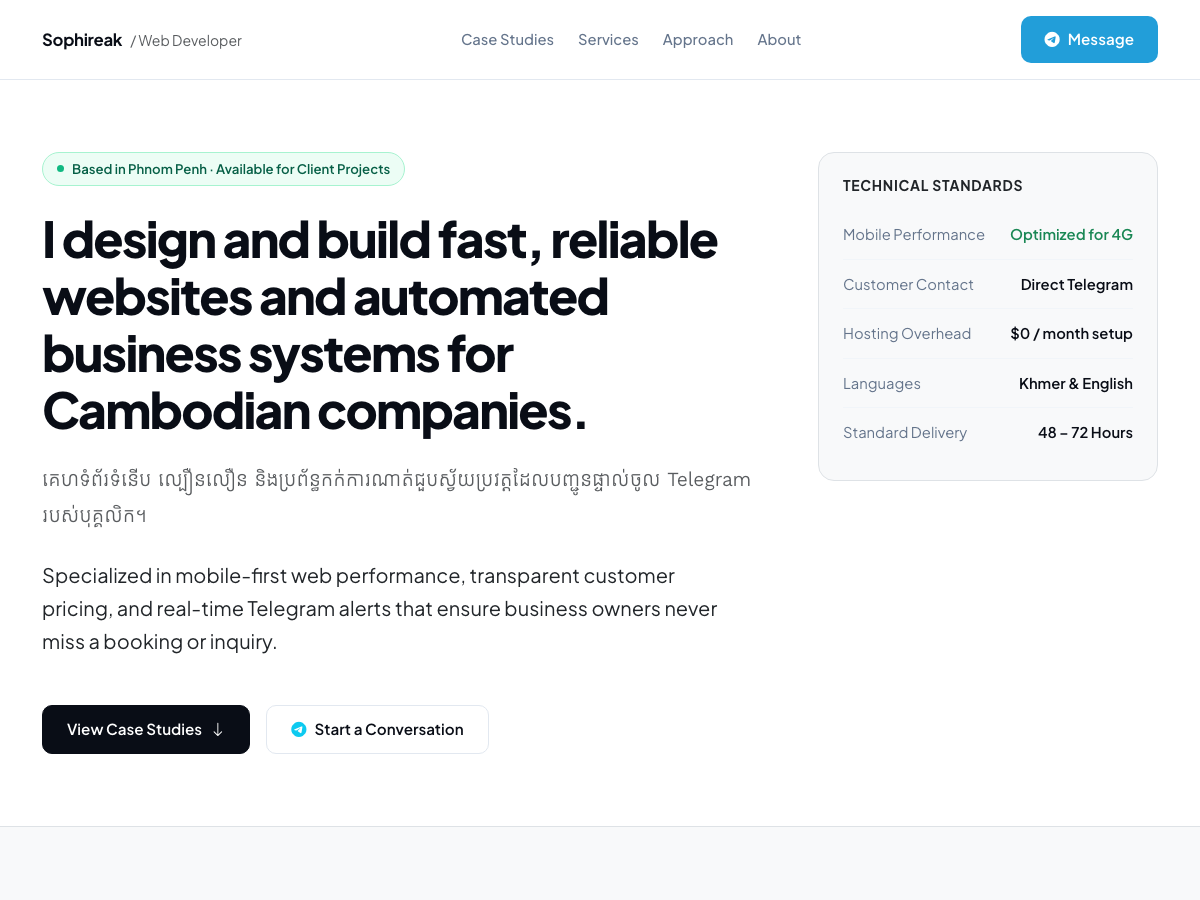
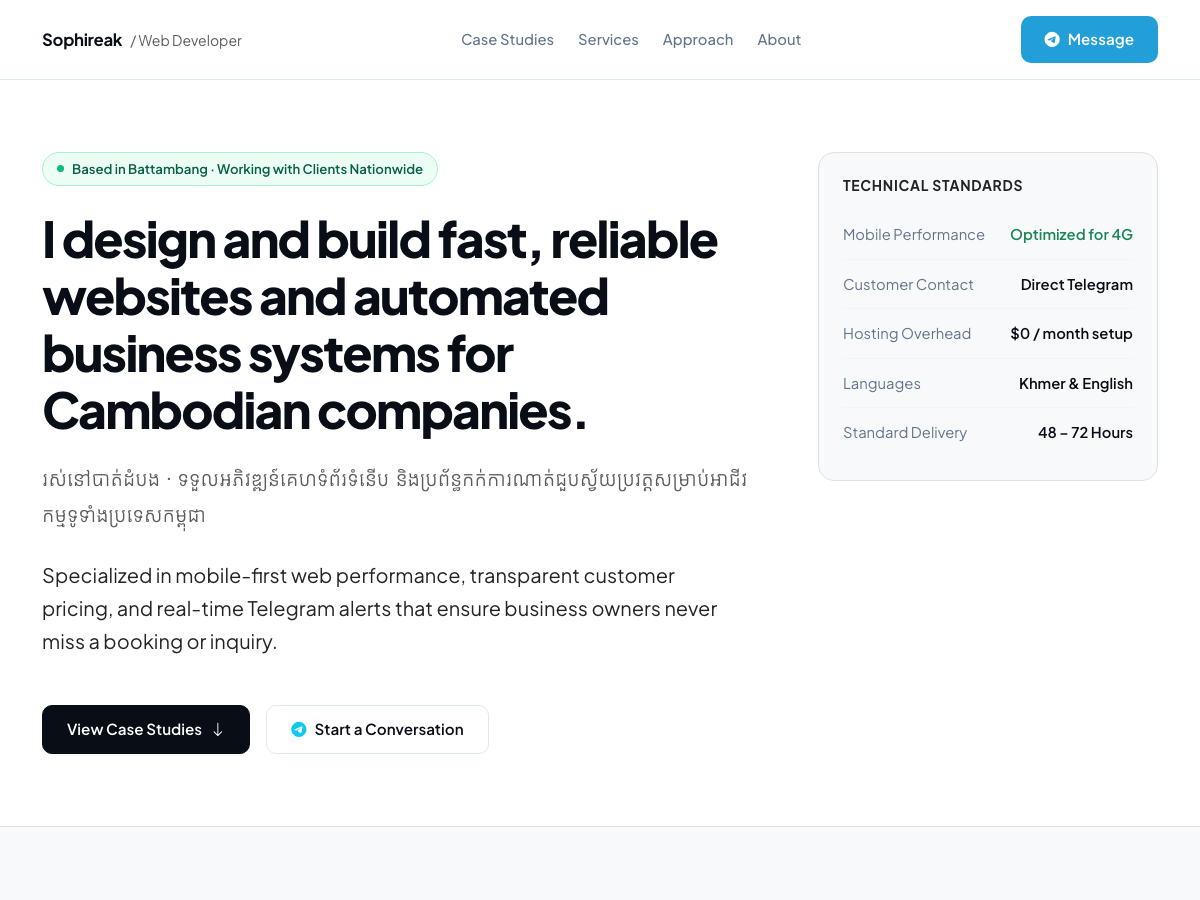
feat: add professional profile photo and update location to Battambang

Changed region(s): [[0.0308, 0.4978, 0.6167, 0.5911], [0.185, 0.1867, 0.37, 0.2178], [0.1233, 0.1867, 0.1542, 0.2178]]

diff --git a/index.html b/index.html
@@ -260,7 +260,7 @@
         <div class="col-lg-8">
           <div class="status-indicator mb-4">
             <span class="status-dot"></span>
-            <span>Based in Phnom Penh · Available for Client Projects</span>
+            <span>Based in Battambang · Working with Clients Nationwide</span>
           </div>
 
           <h1 class="display-editorial mb-4">
@@ -268,7 +268,7 @@
           </h1>
 
           <p class="khmer-text text-muted fs-5 mb-4" style="line-height: 1.8;">
-            គេហទំព័រទំនើប ល្បឿនលឿន និងប្រព័ន្ធកក់ការណាត់ជួបស្វ័យប្រវត្តដែលបញ្ជូនផ្ទាល់ចូល Telegram របស់បុគ្គលិក។
+            រស់នៅបាត់ដំបង · ទទួលអភិវឌ្ឍន៍គេហទំព័រទំនើប និងប្រព័ន្ធកក់ការណាត់ជួបស្វ័យប្រវត្តសម្រាប់អាជីវកម្មទូទាំងប្រទេសកម្ពុជា
           </p>
 
           <p class="text-body fs-5 mb-5" style="max-width: 680px;">
@@ -600,19 +600,26 @@
   </section>
 
   <!-- About / Background -->
-  <section id="about" class="py-5">
+  <section id="about" class="py-5 bg-light border-top border-bottom">
     <div class="container py-4">
       <div class="row align-items-center g-5">
-        <div class="col-lg-7">
-          <span class="text-muted small fw-bold text-uppercase" style="letter-spacing: 0.05em;">About Developer</span>
-          <h2 class="display-6 fw-bold mt-1 mb-4">Building practical digital tools for Phnom Penh entrepreneurs.</h2>
+        <div class="col-lg-4 text-center">
+          <div class="rounded-4 overflow-hidden border shadow-sm" style="background: #000;">
+            <img src="./profile.jpg" alt="Sophireak Independent Web Developer" class="img-fluid" style="width: 100%; height: 420px; object-fit: cover; object-position: top center;">
+          </div>
+        </div>
 
-          <p class="text-body fs-5 mb-4">
-            I am an independent web developer based in Phnom Penh. I combine clean software development with real-world commercial logic: making sure your website opens fast, communicates your value clearly, and routes inquiries directly to your team without unnecessary complexity.
+        <div class="col-lg-5">
+          <span class="text-muted small fw-bold text-uppercase" style="letter-spacing: 0.05em;">About Developer</span>
+          <h2 class="display-6 fw-bold mt-1 mb-2">Sophireak</h2>
+          <p class="text-primary fw-semibold small mb-4">Independent Web Developer · Battambang, Cambodia</p>
+
+          <p class="text-body mb-3">
+            I am an independent web developer based in Battambang, Cambodia, building digital solutions for clients across the country and remotely worldwide.
           </p>
 
-          <p class="text-muted mb-4">
-            Whether you are launching a new clinic, modernizing an appointment schedule, or upgrading your retail records, I focus on delivering systems that are secure, reliable, and cost-effective to maintain.
+          <p class="text-muted small mb-4">
+            I combine clean software engineering with practical commercial results: making sure your business website opens fast, communicates your value clearly, and routes inquiries directly to your team's Telegram without unnecessary complexity or ongoing overhead.
           </p>
 
           <div class="d-flex flex-wrap gap-2 pt-2">
@@ -626,39 +633,40 @@
           </div>
         </div>
 
-        <div class="col-lg-5">
-          <div class="editorial-card p-4 p-md-5">
-            <h5 class="fw-bold mb-2">Direct Contact</h5>
-            <p class="text-muted small mb-4">Available for direct inquiries, project consultations, and freelance collaborations.</p>
+        <div class="col-lg-3">
+          <div class="editorial-card p-4 h-100 d-flex flex-column justify-content-between">
+            <div>
+              <h6 class="fw-bold mb-3 text-uppercase small" style="letter-spacing: 0.05em;">Direct Contact</h6>
 
-            <div class="d-flex flex-column gap-3 mb-4">
-              <a href="https://t.me/bNha_dev" target="_blank" class="text-decoration-none text-dark d-flex align-items-center gap-3">
-                <i class="bi bi-telegram fs-4 text-info"></i>
-                <div>
-                  <div class="fw-bold small">Telegram</div>
-                  <div class="text-muted small">@bNha_dev</div>
-                </div>
-              </a>
+              <div class="d-flex flex-column gap-3 mb-4">
+                <a href="https://t.me/bNha_dev" target="_blank" class="text-decoration-none text-dark d-flex align-items-center gap-3">
+                  <i class="bi bi-telegram fs-4 text-info"></i>
+                  <div>
+                    <div class="fw-bold small">Telegram</div>
+                    <div class="text-muted small">@bNha_dev</div>
+                  </div>
+                </a>
 
-              <a href="mailto:reak36@gmail.com" class="text-decoration-none text-dark d-flex align-items-center gap-3">
-                <i class="bi bi-envelope fs-4 text-primary"></i>
-                <div>
-                  <div class="fw-bold small">Email</div>
-                  <div class="text-muted small">reak36@gmail.com</div>
-                </div>
-              </a>
+                <a href="mailto:reak36@gmail.com" class="text-decoration-none text-dark d-flex align-items-center gap-3">
+                  <i class="bi bi-envelope fs-4 text-primary"></i>
+                  <div>
+                    <div class="fw-bold small">Email</div>
+                    <div class="text-muted small">reak36@gmail.com</div>
+                  </div>
+                </a>
 
-              <a href="https://github.com/Sophireak" target="_blank" class="text-decoration-none text-dark d-flex align-items-center gap-3">
-                <i class="bi bi-github fs-4"></i>
-                <div>
-                  <div class="fw-bold small">GitHub</div>
-                  <div class="text-muted small">github.com/Sophireak</div>
-                </div>
-              </a>
+                <a href="https://github.com/Sophireak" target="_blank" class="text-decoration-none text-dark d-flex align-items-center gap-3">
+                  <i class="bi bi-github fs-4"></i>
+                  <div>
+                    <div class="fw-bold small">GitHub</div>
+                    <div class="text-muted small">github.com/Sophireak</div>
+                  </div>
+                </a>
+              </div>
             </div>
 
             <a href="https://t.me/bNha_dev" target="_blank" class="btn btn-telegram w-100 justify-content-center">
-              <i class="bi bi-telegram"></i> Start Telegram Chat
+              <i class="bi bi-telegram"></i> Message Me
             </a>
           </div>
         </div>
@@ -670,7 +678,7 @@
   <footer class="py-4 border-top bg-white">
     <div class="container d-flex flex-wrap justify-content-between align-items-center gap-3 small text-muted">
       <div>
-        <span>&copy; 2026 Sophireak. Independent Web Developer · Phnom Penh, Cambodia.</span>
+        <span>&copy; 2026 Sophireak. Independent Web Developer · Battambang, Cambodia (Remote Nationwide).</span>
       </div>
       <div class="d-flex gap-3">
         <a href="https://github.com/Sophireak" target="_blank" class="text-muted text-decoration-none">GitHub</a>
